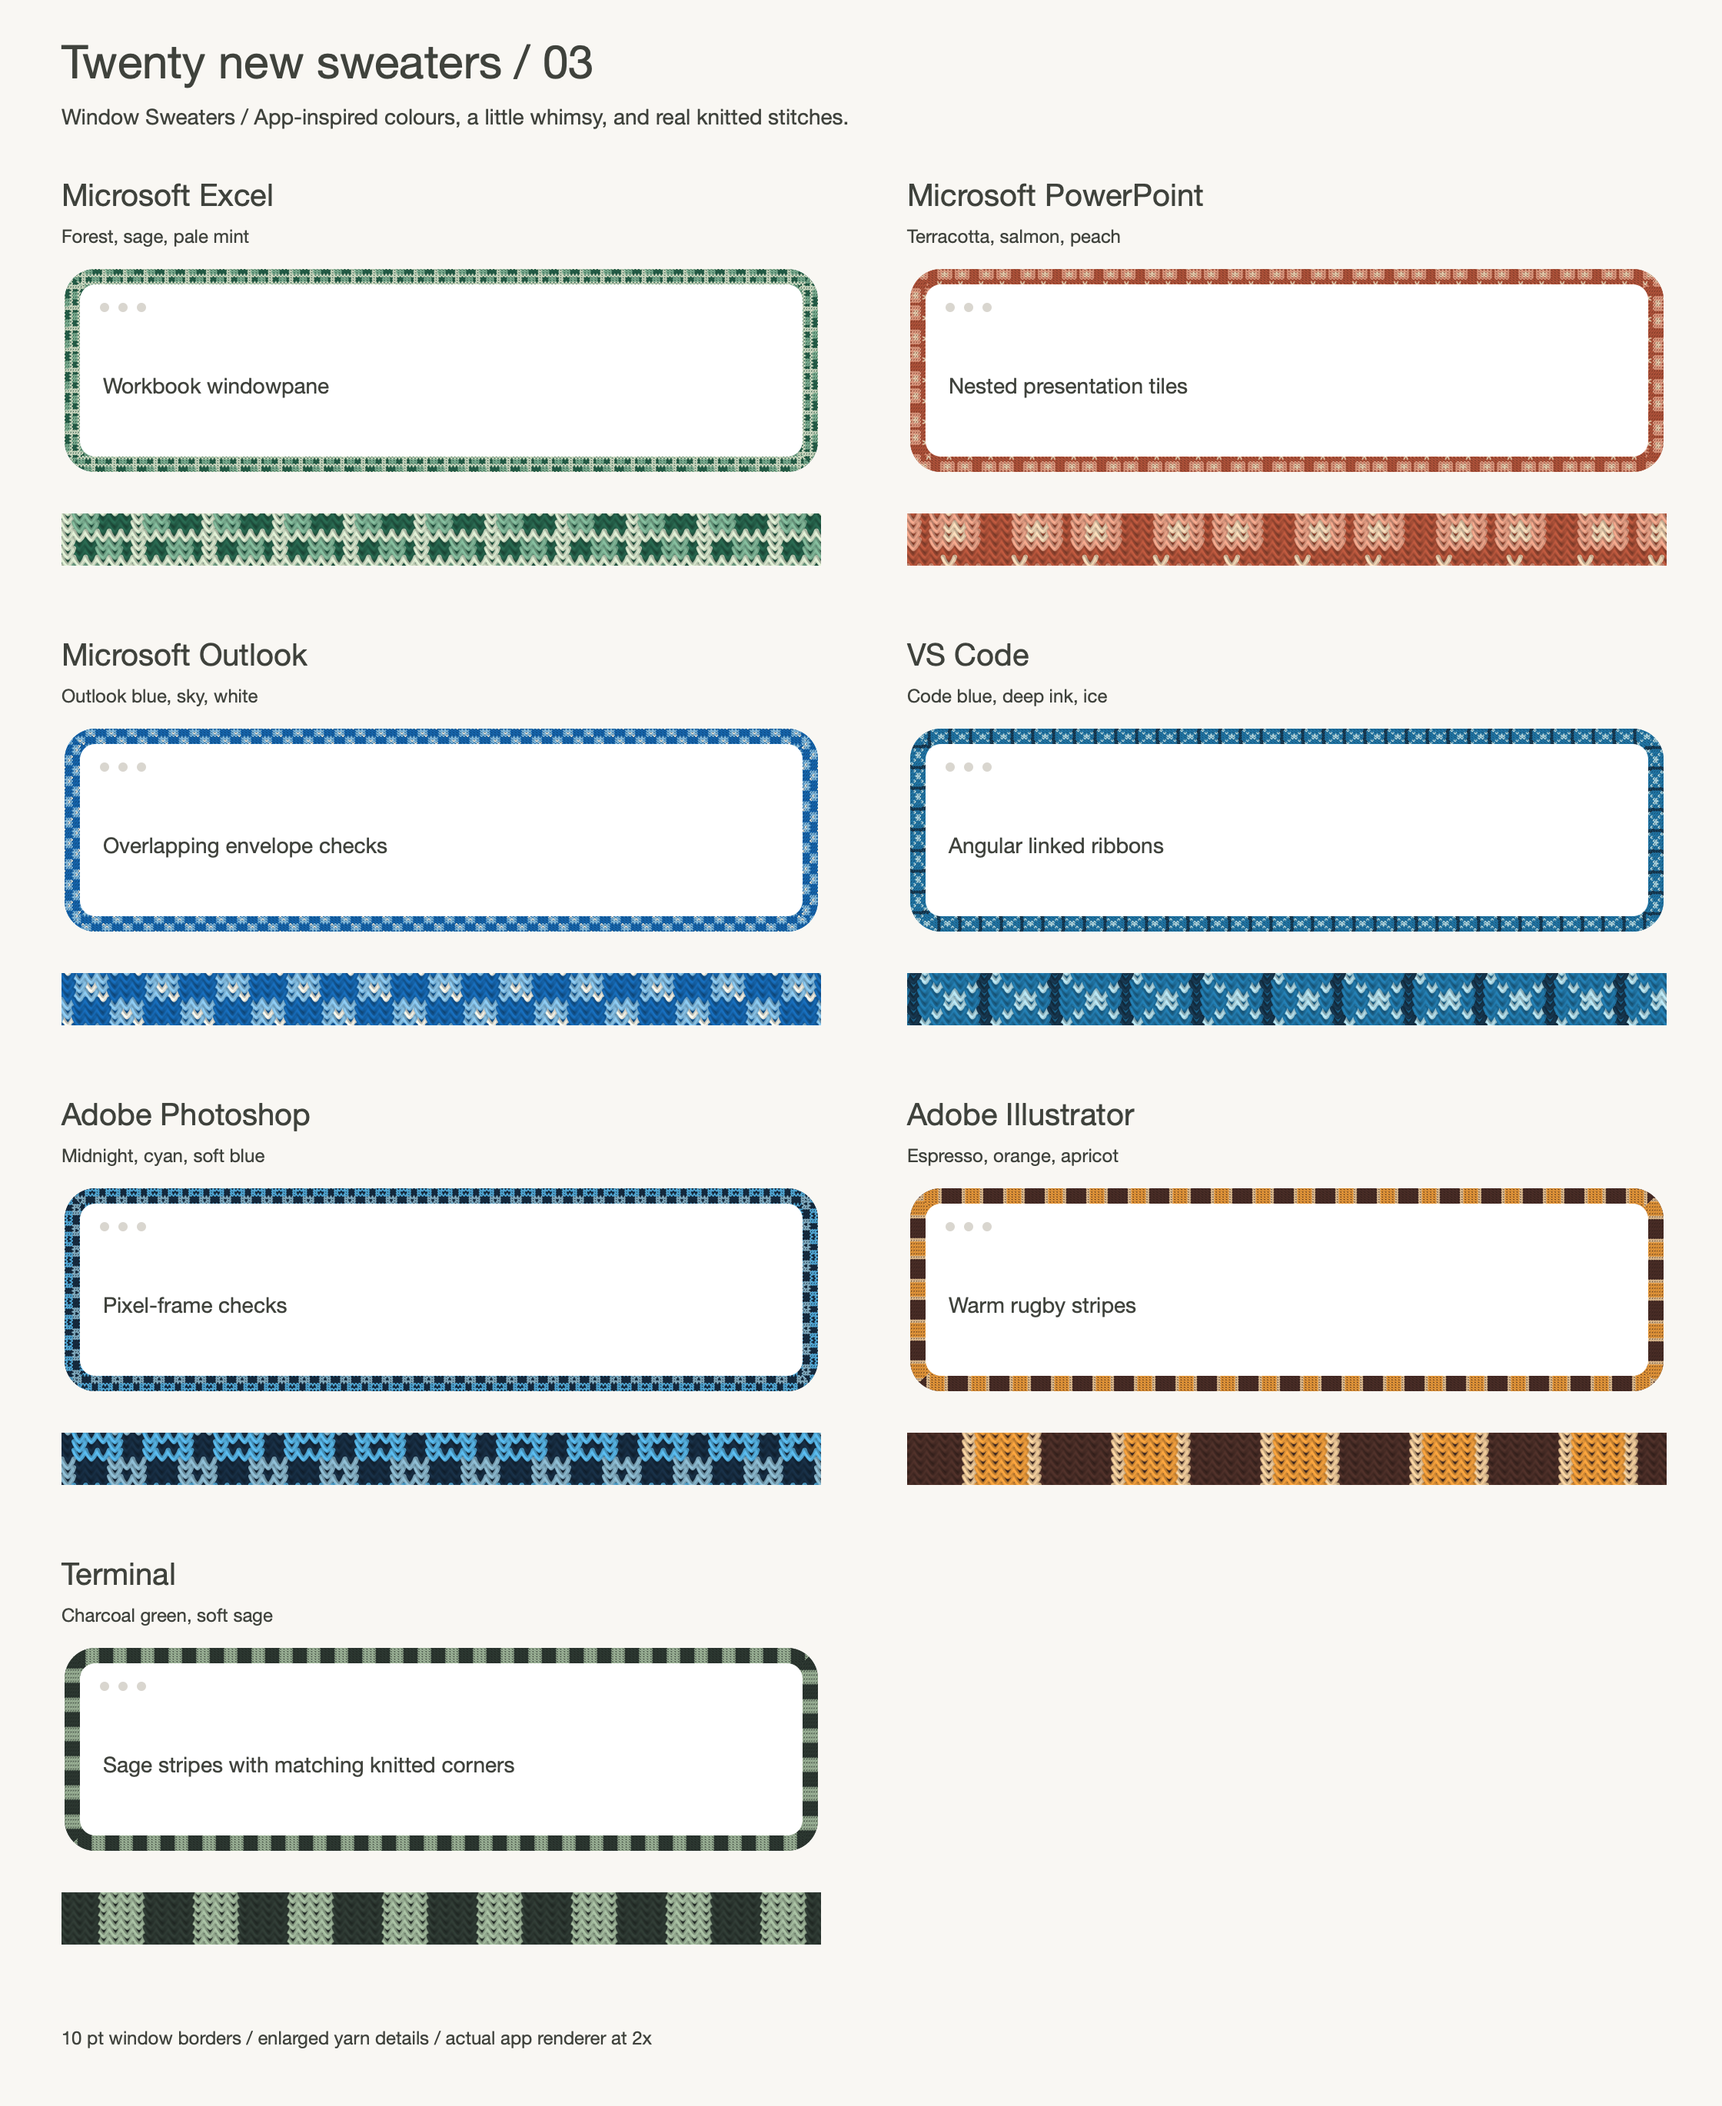
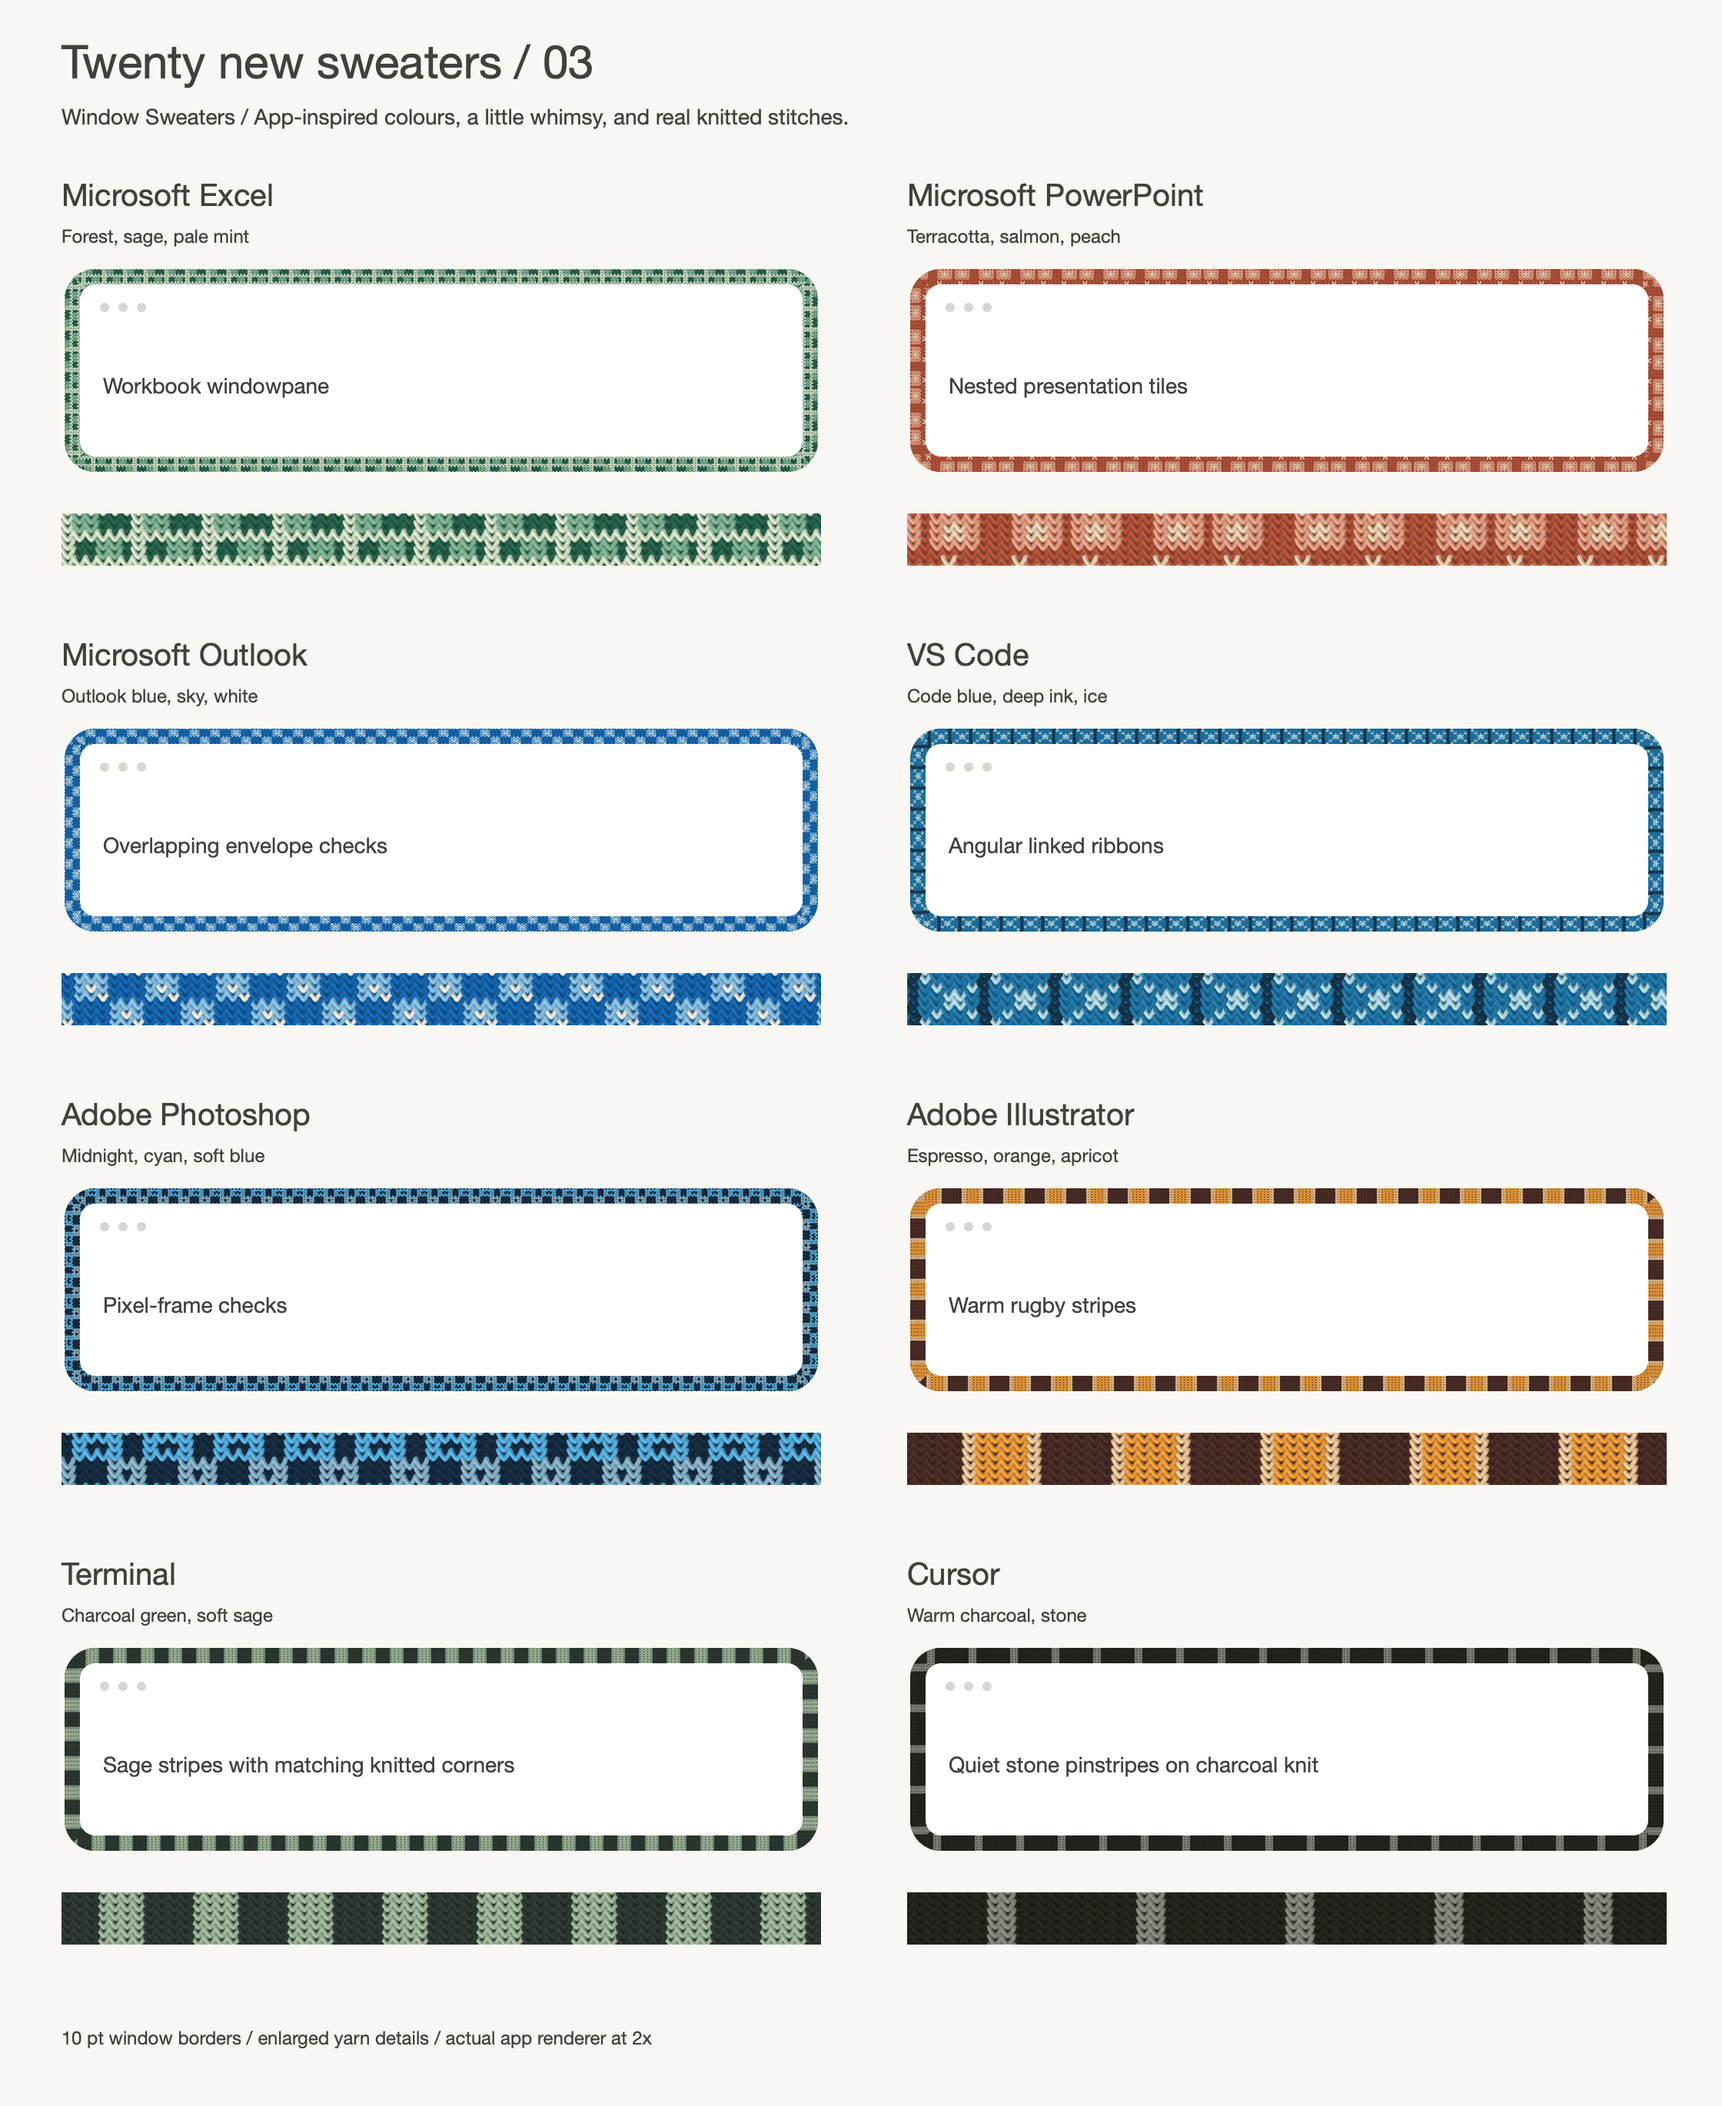
Target macOS 13 in release builds and state supported systems
Without an explicit -mmacosx-version-min, clang targeted the build machine's
macOS 26, so the binary refused to launch below that despite the plist
declaring 13. Both slices now report minos 13.0.

Changed region(s): [[0.5, 0.7445, 0.9688, 0.9307]]

diff --git a/tests/collection_test.c b/tests/collection_test.c
@@ -16,7 +16,7 @@ static const char* const collection_names[] = {
   "atelier-finder", "atelier-terminal", "atelier-grok", "atelier-teams", "atelier-claude", "atelier-codex",
   "atelier-spotify", "atelier-notion", "atelier-whatsapp", "atelier-figma",
   "atelier-chrome", "atelier-paper",
-  "atelier-safari", "atelier-firefox", "atelier-slack", "atelier-zoom", "atelier-telegram", "atelier-messages", "atelier-mail", "atelier-notes", "atelier-calendar", "atelier-reminders", "atelier-music", "atelier-photos", "atelier-preview", "atelier-word", "atelier-excel", "atelier-powerpoint", "atelier-outlook", "atelier-vscode", "atelier-photoshop", "atelier-illustrator",
+  "atelier-safari", "atelier-firefox", "atelier-cursor", "atelier-slack", "atelier-zoom", "atelier-telegram", "atelier-messages", "atelier-mail", "atelier-notes", "atelier-calendar", "atelier-reminders", "atelier-music", "atelier-photos", "atelier-preview", "atelier-word", "atelier-excel", "atelier-powerpoint", "atelier-outlook", "atelier-vscode", "atelier-photoshop", "atelier-illustrator",
   "atelier-granola", "atelier-chatgpt", "atelier-ghostty", "braid", "blockstripe", "checker", "seedling", "trim", "picnic", "ribbon", "posy", "twinkle", "candy-stripe", "zigzag"
 };
 enum { COLLECTION_COUNT = sizeof collection_names / sizeof collection_names[0] };
@@ -64,7 +64,7 @@ static void test_apps(const char* home) {
   assert(strcmp(knit_app_rule("Google Chrome Helper")->chart, "atelier-chrome") == 0);
   assert(strcmp(knit_app_rule("Chrome")->chart, "atelier-chrome") == 0);
   assert(strcmp(knit_app_rule("Chromium")->chart, "atelier-chrome") == 0);
-  assert(CATALOGUE_COUNT == 36);
+  assert(CATALOGUE_COUNT == 37);
   for (int i = 0; i < CATALOGUE_COUNT; i++) {
     const struct app_rule* rule = knit_app_rule(catalogue[i].match);
     assert(rule && strcmp(rule->chart, catalogue[i].chart) == 0);
@@ -73,7 +73,12 @@ static void test_apps(const char* home) {
   assert(strcmp(knit_app_rule("Visual Studio Code")->chart, "atelier-vscode") == 0);
   assert(strcmp(knit_app_rule("Adobe Photoshop 2026")->chart, "atelier-photoshop") == 0);
   assert(knit_app_rule("Electron") == NULL);
+
   char identity[64] = "unchanged";
+  assert(knit_app_name_from_executable("/Applications/Cursor.app/Contents/MacOS/Cursor", identity, sizeof identity));
+  assert(strcmp(knit_app_rule(identity)->chart, "atelier-cursor") == 0);
+  assert(knit_app_name_from_executable("/Applications/Cursor.app/Contents/MacOS/Electron", identity, sizeof identity));
+  assert(strcmp(knit_app_rule(identity)->chart, "atelier-cursor") == 0);
   assert(knit_app_name_from_executable(
       "/Applications/Visual Studio Code.app/Contents/MacOS/Electron", identity, sizeof identity));
   assert(strcmp(knit_app_rule(identity)->chart, "atelier-vscode") == 0);
@@ -180,7 +185,7 @@ static void test_preserved_charts(void) {
 }
 
 static void test_charts(const char* dir) {
-  assert(COLLECTION_COUNT == 46);
+  assert(COLLECTION_COUNT == 47);
   assert(knit_charts_load("/does-not-exist/knit-test") == COLLECTION_COUNT);
   for (int i = 0; i < COLLECTION_COUNT; i++) {
     assert(knit_chart_index(collection_names[i]) == i); // names are unique and stable
@@ -285,6 +290,6 @@ int main(void) {
   assert(rmdir(support) == 0);
   assert(rmdir(library) == 0);
   assert(rmdir(home) == 0);
-  puts("Collection tests passed: 36 app profiles, 46 valid charts, strict parsing, app precedence, By App/global/plain patterns, Chrome, overrides, stable reloads.");
+  puts("Collection tests passed: 37 app profiles, 47 valid charts, strict parsing, app precedence, By App/global/plain patterns, Chrome, overrides, stable reloads.");
   return 0;
 }

diff --git a/src/chart.c b/src/chart.c
@@ -93,6 +93,10 @@ static const struct collection_chart k_collection[] = {
       "a.....a.....", "aa....aa....", ".aa....aa...",
       "..bb....bb..", "...bb....bb.", "....b.....b." },
     { 0xffff873eu, 0xffffc167u } },
+  { "atelier-cursor", {
+      ".....aa.....", ".....aa.....", ".....aa.....",
+      ".....aa.....", ".....aa.....", ".....aa....." },
+    { 0xff8c8b83u } },
   { "atelier-slack", {
       ".a......b...", "aaa....bbb..", ".a......b...",
       "....c......d", "...ccc....dd", "....c......d" },
@@ -267,7 +271,8 @@ static void load_collection(void) {
         if (pixels[cell] == chart->cuff_color) pixels[cell] = 0;
     }
     chart->round_dots = strcmp(spec->name, "atelier-messages") == 0;
-    chart->fitted_repeat = strcmp(spec->name, "atelier-finder") == 0
+    chart->fitted_repeat = strcmp(spec->name, "atelier-cursor") == 0
+                         || strcmp(spec->name, "atelier-finder") == 0
                          || strcmp(spec->name, "atelier-terminal") == 0
                          || strcmp(spec->name, "atelier-grok") == 0
                          || strcmp(spec->name, "atelier-granola") == 0

diff --git a/src/apps.c b/src/apps.c
@@ -30,6 +30,7 @@ static const struct app_rule k_collection[] = {
   { "Chromium",        0xfff4f0e6u, "atelier-chrome" },
   { "Safari", 0xff268ed8u, "atelier-safari" },
   { "Firefox", 0xff643a9au, "atelier-firefox" },
+  { "Cursor", 0xff26251eu, "atelier-cursor" },
   { "Slack", 0xff542a52u, "atelier-slack" },
   { "zoom.us", 0xff2877ebu, "atelier-zoom" },
   { "Zoom", 0xff2877ebu, "atelier-zoom" },
@@ -71,7 +72,7 @@ static const char* k_default_conf =
   "#\n"
   "# Edit, then pick \"Reload app colours\" from the menu.\n"
   "\n"
-  "# 36 apps already have their own yarn and chart; see docs/COLLECTION.md.\n"
+  "# 37 apps already have their own yarn and chart; see docs/COLLECTION.md.\n"
   "# Uncomment to customize:\n"
   "# Claude = #D58561 atelier-claude\n";
 

diff --git a/tests/catalogue.h b/tests/catalogue.h
@@ -38,5 +38,6 @@ static const struct catalogue_entry catalogue[] = {
   { "Adobe Photoshop", "Adobe Photoshop", "atelier-photoshop", "Midnight, cyan, soft blue", "Pixel-frame checks" },
   { "Adobe Illustrator", "Adobe Illustrator", "atelier-illustrator", "Espresso, orange, apricot", "Warm rugby stripes" },
   { "Terminal", "Terminal", "atelier-terminal", "Charcoal green, soft sage", "Sage stripes with matching knitted corners" },
+  { "Cursor", "Cursor", "atelier-cursor", "Warm charcoal, stone", "Quiet stone pinstripes on charcoal knit" },
 };
 enum { CATALOGUE_COUNT = sizeof catalogue / sizeof catalogue[0] };

diff --git a/tests/render.c b/tests/render.c
@@ -461,7 +461,7 @@ static void verify_corners(void) {
         }
         CGContextRelease(actual); CGContextRelease(mask);
       }
-  puts("PASS: all 36 profiles, unchanged 10 pt width, all four opaque corners, square/rounded/clamped radii at 1x/2x");
+  puts("PASS: all 37 profiles, unchanged 10 pt width, all four opaque corners, square/rounded/clamped radii at 1x/2x");
 }
 
 // A contrasting test fabric exposes the exact patch boundary independently

diff --git a/src/main.c b/src/main.c
@@ -20,7 +20,7 @@
 
 #define MAJOR 1
 #define MINOR 4
-#define PATCH 28
+#define PATCH 29
 
 // Resolved via dlsym because of availability
 CFArrayRef (* JBSLSWindowIteratorGetCornerRadii)(CFTypeRef) = NULL;

diff --git a/docs/COLLECTION.md b/docs/COLLECTION.md
@@ -1,6 +1,6 @@
 # The sweater collection
 
-36 app sweaters, individually inspected on 14 September 2026. Each plate shows a 10-point border, a 4x enlargement using that same stitch geometry, and four enlarged corners. Detail views reuse the renderer and cached yarn; they are not photographs or larger-gauge swatches.
+37 app sweaters. The original 36 were individually inspected on 14 September 2026; Cursor was added later that day. Each plate shows a 10-point border, a 4x enlargement using that same stitch geometry, and four enlarged corners. Detail views reuse the renderer and cached yarn; they are not photographs or larger-gauge swatches.
 
 This is a visual design review of the actual renderer, not a claim of perfect live behaviour in every app. The plates use a 10-point reference width; the app defaults to 12 points. WhatsApp uses textured, equal corner patches. Notes and Calendar have continuous curved cuffs instead. The rest have patterned corners.
 
@@ -48,6 +48,7 @@ Design rule: judge the 10-point border first. Use one clear pattern rhythm, app-
 | 34 | [Adobe Photoshop](#34-adobe-photoshop) | Pixel-frame checks |
 | 35 | [Adobe Illustrator](#35-adobe-illustrator) | Warm rugby stripes |
 | 36 | [Terminal](#36-terminal) | Sage stripes with matching knitted corners |
+| 37 | [Cursor](#37-cursor) | Quiet stone pinstripes |
 
 ## 01 Finder
 
@@ -336,3 +337,11 @@ Refined: symmetric rugby stripes remove clipped corner wedges. Orange bands are 
 Keep: sage and charcoal stripes are calm and clearly knitted. Fitted repeats give all four patterned corners a consistent construction.
 
 ![Terminal: window border, yarn detail and all four corners](collection/app-36.png)
+
+## 37 Cursor
+
+**Palette:** Warm charcoal, stone.
+
+Restrained stone pinstripes on warm charcoal, with raised yarn and fitted patterned corners. A quiet neutral knit without icon motifs or solid patches.
+
+![Cursor: window border, yarn detail and all four corners](collection/app-37.png)

diff --git a/README.md b/README.md
@@ -23,10 +23,16 @@ Privacy & Security step is the supported route. From Terminal,
 `xattr -dr com.apple.quarantine "/Applications/Window Sweaters.app"` has the same
 effect before the first launch.
 
-The download is a universal binary covering Apple Silicon and Intel Macs. The app
-declares macOS 13 as its minimum; hands-on development has been on Apple Silicon and
-macOS 26. The Intel slice compiles and links but has not been run on Intel hardware,
-and compatibility with every supported macOS version is not verified.
+## What is supported
+
+**macOS 13 Ventura or later, on Apple Silicon or Intel.** The download is a universal
+binary and both slices are built against macOS 13.
+
+Hands-on development and testing have been on Apple Silicon running macOS 26. The Intel
+slice and macOS 13 through 15 are covered by the build but have not been exercised on
+that hardware. Window tracking uses private system APIs, so if something misbehaves on
+another release or machine, please open an issue and include your macOS version,
+hardware and display arrangement.
 
 ## Using it
 
@@ -57,7 +63,7 @@ Local builds are ad-hoc signed, not Developer ID signed or notarized.
 ![Eight apps shown in By App and Zigzag styles, with enlarged yarn details](docs/collection/styles-comparison.png)
 
 Eight favourite apps, each shown in **By App** and **Zigzag**, straight from the
-renderer at 12 pt. The [collection catalogue](docs/COLLECTION.md) shows all 36 app colourways and
+renderer at 12 pt. The [collection catalogue](docs/COLLECTION.md) shows all 37 app colourways and
 close-up yarn details. Unknown apps receive a consistent fallback colour; the
 app does not extract colours from icons. App names identify the inspiration and
 do not imply affiliation or endorsement.

diff --git a/CONTRIBUTING.md b/CONTRIBUTING.md
@@ -40,6 +40,10 @@ The display probe uses its own temporary window and a separate border connection
 
 Run the tests and manual checks on the intended macOS versions. Update both the
 bundle version in `AppInfo.plist` and command-line version in `src/main.c`.
+Release builds must keep `ARCHS` and `DEPLOY` in the Makefile: without an explicit
+`-mmacosx-version-min`, clang targets whatever macOS built it and the binary then
+refuses to launch below that version, no matter what `LSMinimumSystemVersion` says.
+Confirm with `vtool -show-build` that both slices report the intended `minos`.
 Distribution signing and notarization are not configured by the local build.
 Publish source with the license and attribution; do not upload local logs,
 archives, personal settings, build products or developer signing credentials.
